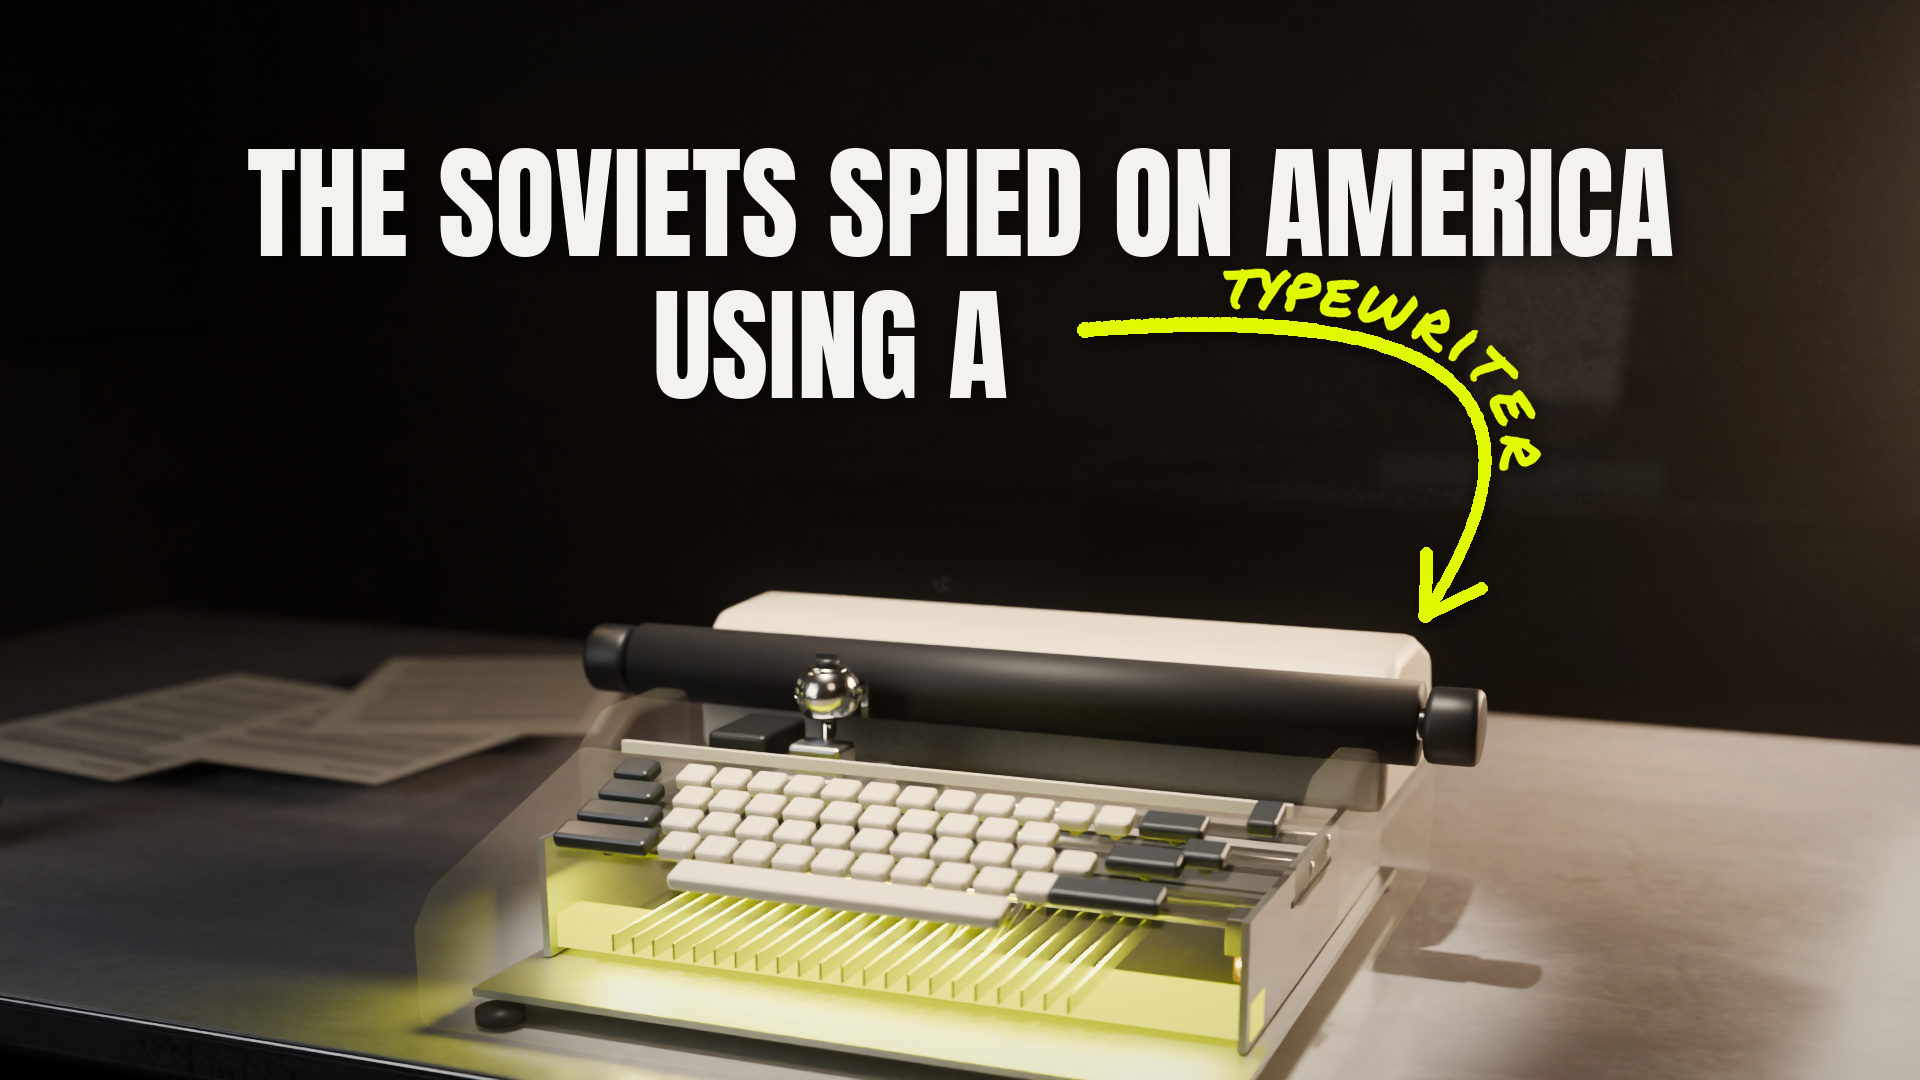
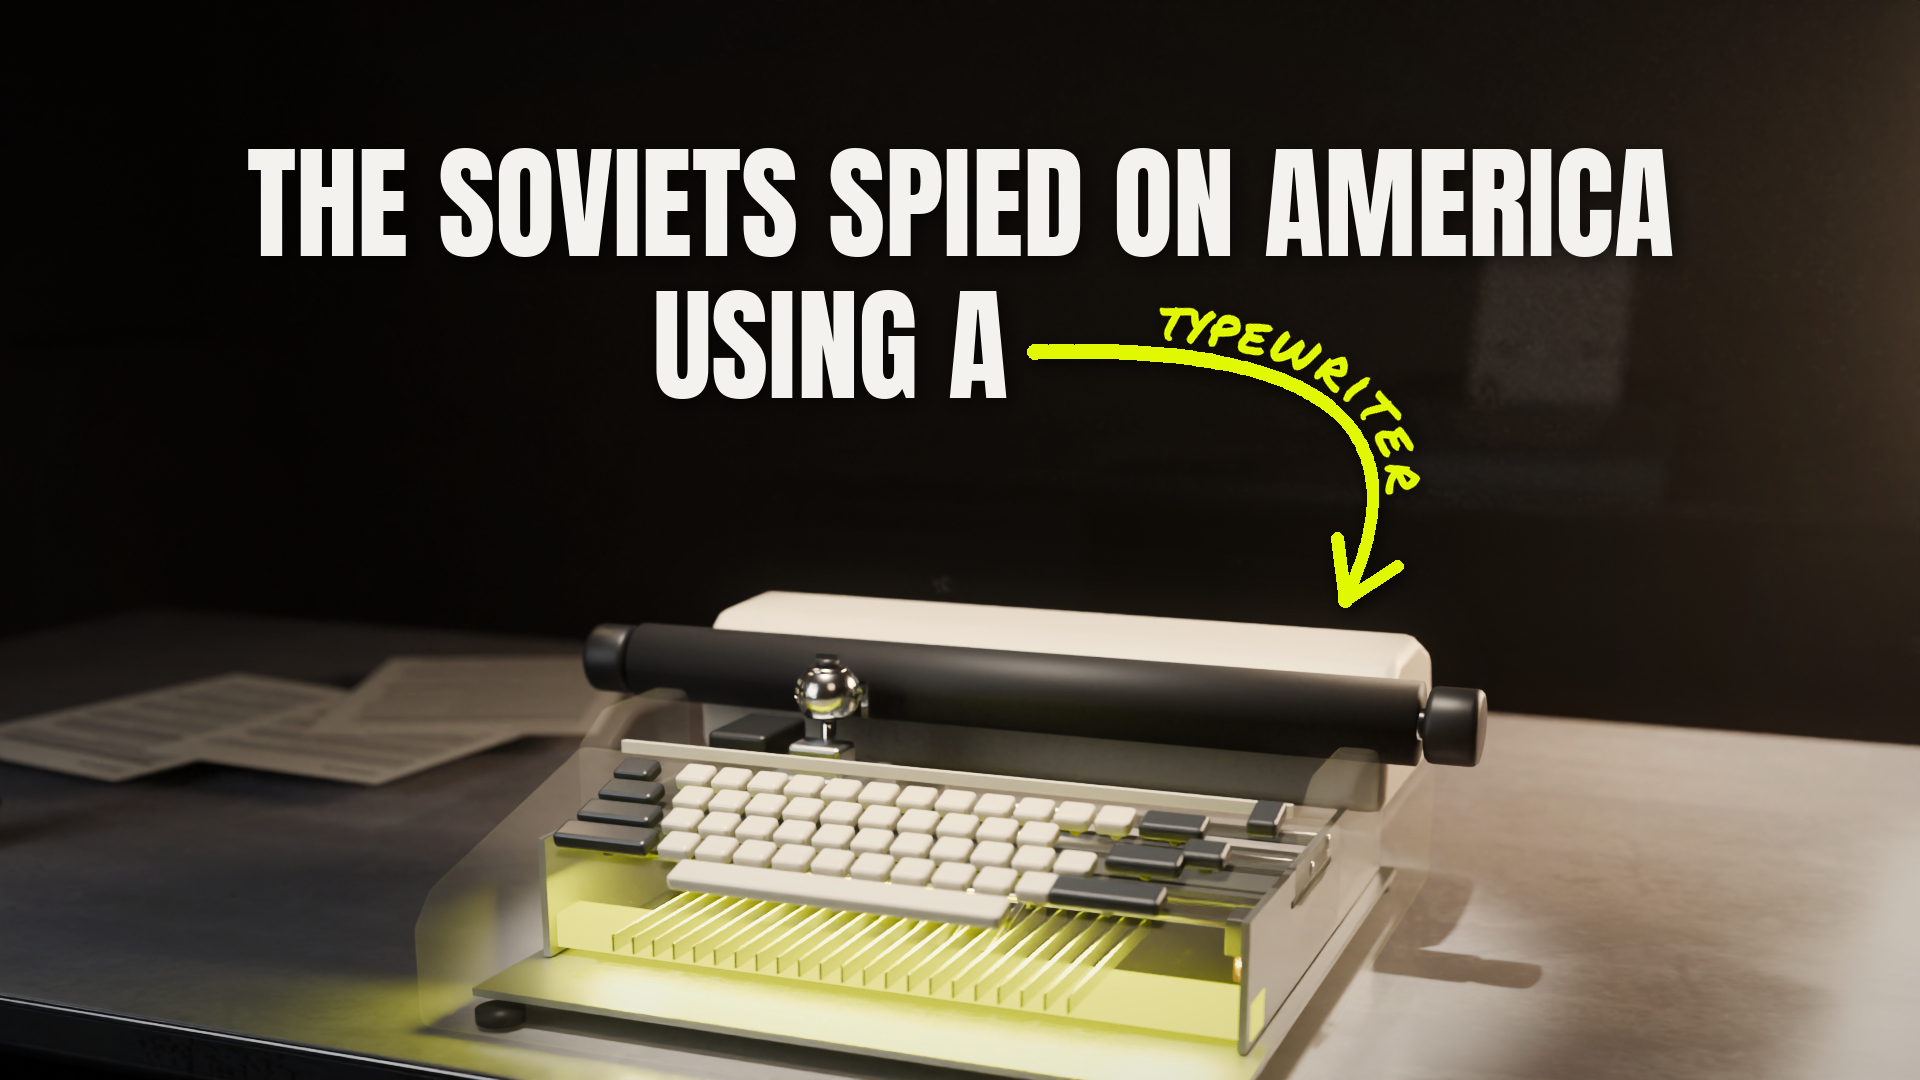
Typewriters C: arrow closer to 'USING A', smaller, label clear of the headline
Claude-Session: https://claude.ai/code/session_01XfwPSn2rDX1TedbFgHWJ1r

Changed region(s): [[0.5312, 0.2444, 0.8125, 0.5806]]

diff --git a/thumbnails/typewriters/make_final_c.py b/thumbnails/typewriters/make_final_c.py
@@ -14,7 +14,7 @@ P = sys.argv[1] if len(sys.argv) > 1 else os.path.join(HERE, "plates")
 OUT = sys.argv[2] if len(sys.argv) > 2 else HERE
 NAME = sys.argv[3] if len(sys.argv) > 3 else "tw_b"
 LAY = dict(l1=("THE SOVIETS SPIED ON AMERICA", 124, 110), l2=("USING A", 124, 252, 830),
-           arrow=((1085, 330), (1640, 285), (1425, 615)), label=("typewriter", 66, 44, 0.12, 0.78))
+           arrow=((1035, 352), (1470, 338), (1345, 600)), label=("typewriter", 56, 38, 0.14, 0.80))
 
 
 def bez(p0, p1, p2, t):
